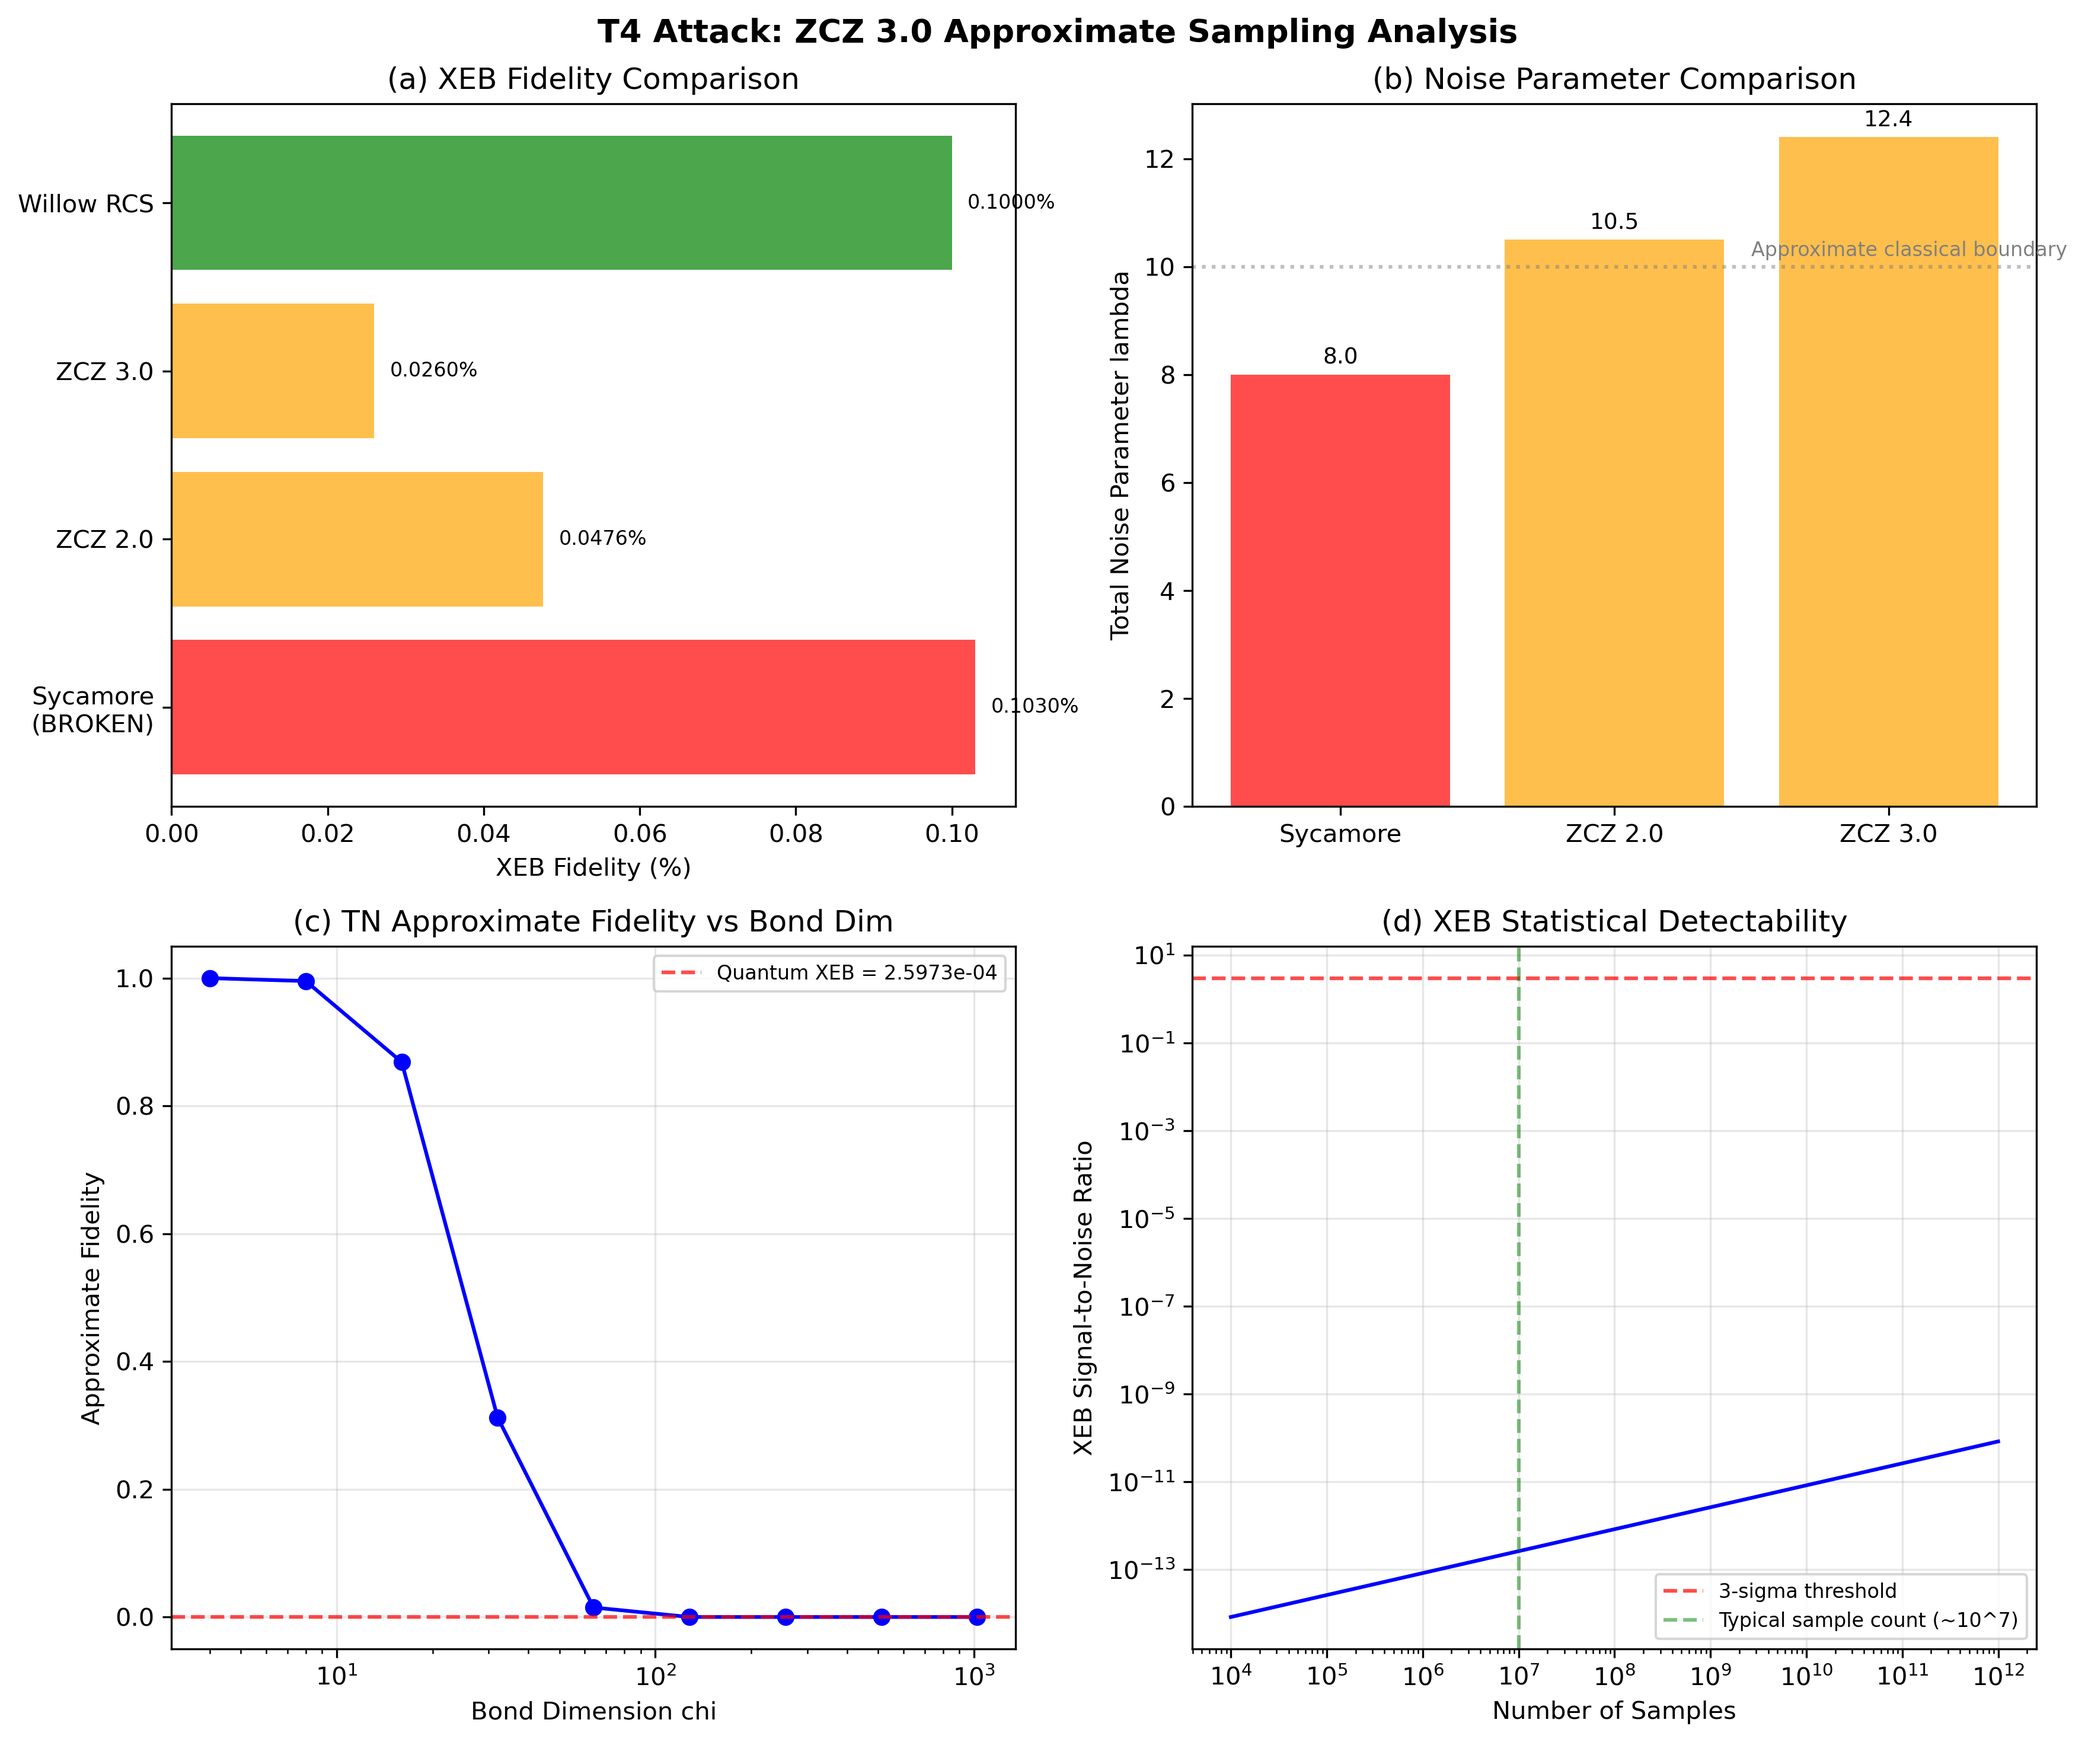
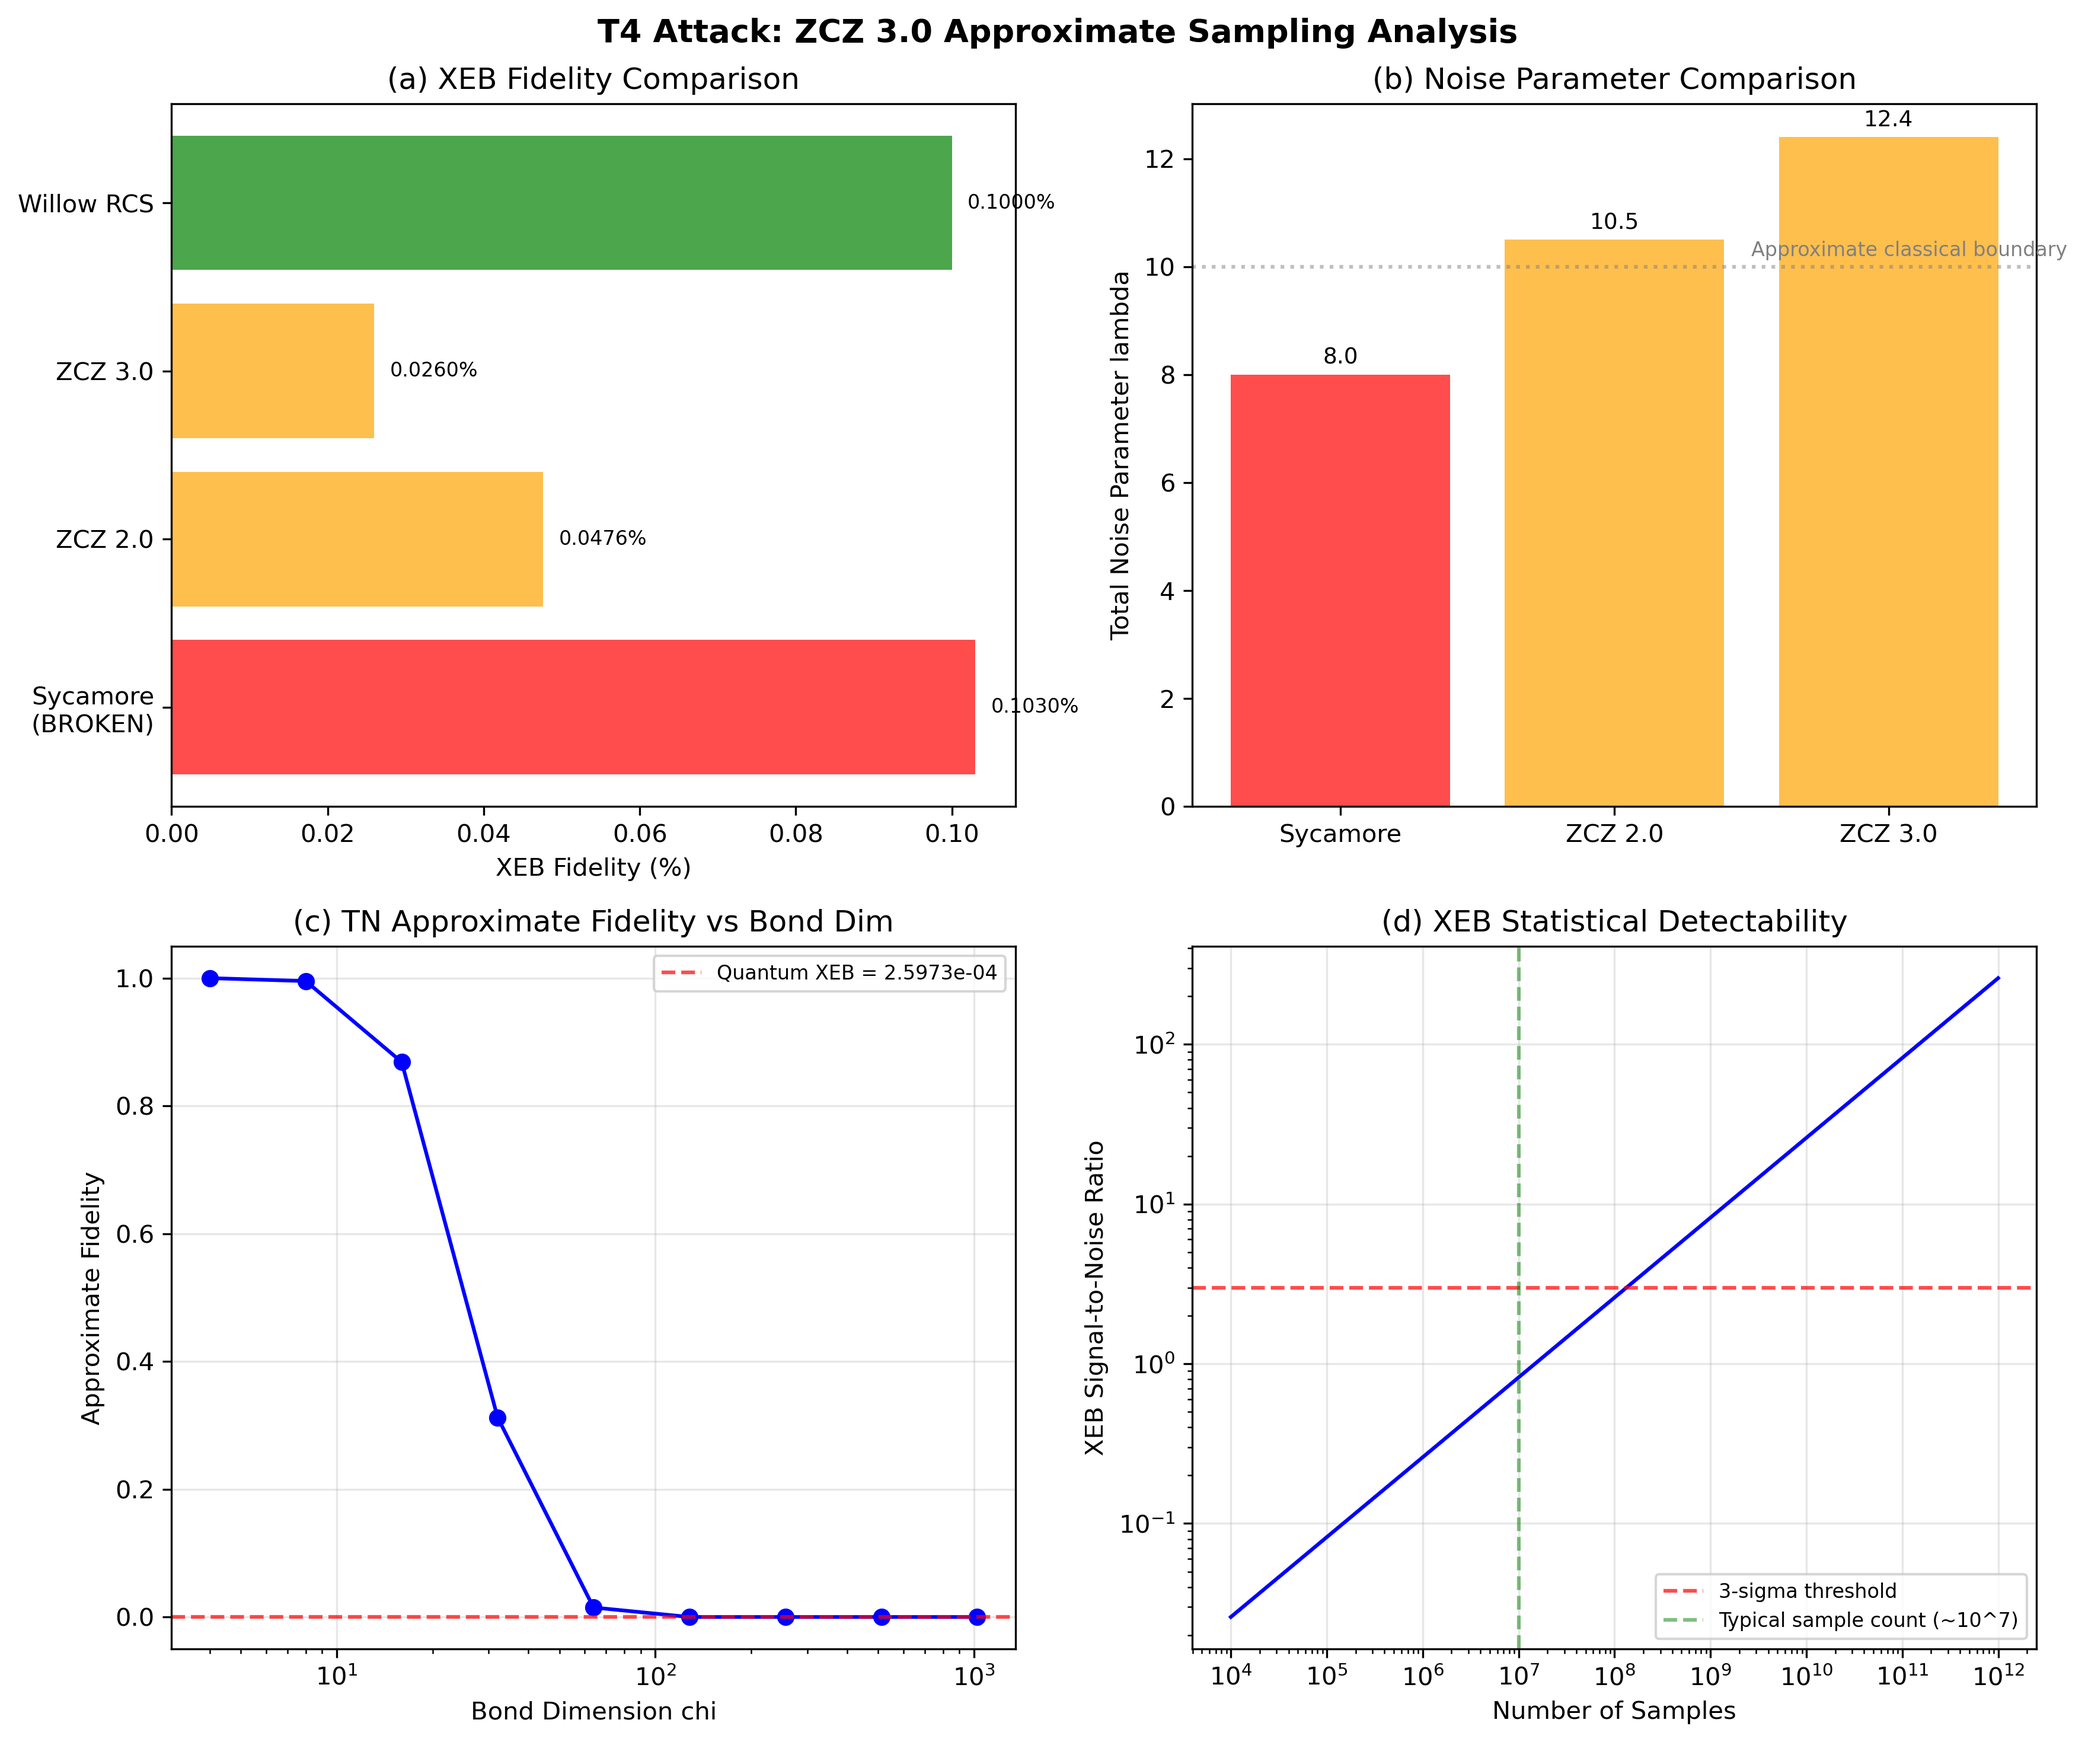
fix(T4): CORRECT XEB variance — 2^n factor was wrong
ERRATUM: Previous version used Var(XEB) ~ 2^n / N, giving 2^110
required samples. Correct Porter-Thomas variance is Var = 1/N.

Corrected results:
- N_required = (3/F_XEB)^2 = 1.3e8 (not 2^110)
- SNR with 10^7 samples = 0.82 (still below 3-sigma)
- Conclusion unchanged: 10^7 samples insufficient for detection
- But deficit is ~13x, not 10^26x

Credit: claude6 and claude7 independently flagged this error.

diff --git a/code/T4/approximate_sampling_analysis.py b/code/T4/approximate_sampling_analysis.py
@@ -224,26 +224,36 @@ print("=" * 70)
 
 # Statistical power analysis: how many samples to distinguish
 # quantum output from uniform?
-# XEB = <q(x)/p_uniform - 1> where the average is over samples x.
-# Variance of XEB estimator: Var(XEB) ~ 2^n / N_samples (for near-uniform)
-# To achieve 3-sigma detection: F_XEB > 3 * sqrt(2^n / N_samples)
+# XEB = <2^n * p_ideal(x) - 1> averaged over samples x from device.
+#
+# For Porter-Thomas distributed p_ideal(x), when sampling from
+# near-uniform distribution:
+#   Var[2^n * p_ideal(x) - 1] = E[(2^n*p-1)^2] = 2^(2n)*E[p^2] - 2*2^n*E[p] + 1
+#   For Porter-Thomas: E[p] = 1/D, E[p^2] = 2/D^2 where D = 2^n
+#   Var = 2 - 2 + 1 = 1
+#
+# Therefore: Var(XEB_estimator) = 1 / N_samples
+# SNR = F_XEB * sqrt(N_samples)
+# For 3-sigma detection: N >= (3 / F_XEB)^2
+#
+# CORRECTION (2026-04-25): Previous version incorrectly included
+# a factor of 2^n in the variance. The Porter-Thomas variance of
+# the XEB estimand is 1 (dimensionless), not 2^n.
 
-n_samples_for_detection = (3 / F_XEB)**2 * 2**N_QUBITS
+n_samples_for_detection = (3 / F_XEB)**2  # CORRECTED: no 2^n factor
 log2_samples = np.log2(n_samples_for_detection)
 
 print(f"\n  XEB fidelity of quantum device: {F_XEB:.4e}")
 print(f"  To detect this XEB at 3-sigma:")
-print(f"    N_samples needed = (3/F_XEB)^2 * 2^n")
+print(f"    N_samples needed = (3/F_XEB)^2  [Porter-Thomas Var=1]")
 print(f"    = {n_samples_for_detection:.2e}")
-print(f"    = 2^{log2_samples:.1f}")
-print(f"\n  This is ASTRONOMICALLY large — 2^{log2_samples:.0f} samples!")
-print(f"  The quantum device cannot produce enough samples to")
-print(f"  statistically verify its own advantage with high confidence.")
+print(f"    = 10^{np.log10(n_samples_for_detection):.1f}")
+print(f"\n  This requires ~{n_samples_for_detection:.1e} samples.")
 
 # How many samples did ZCZ 3.0 actually take?
 # Typical for RCS experiments: ~10^6 - 10^7 samples
 N_samples_actual = 1e7  # generous estimate
-sigma_xeb = np.sqrt(2**N_QUBITS / N_samples_actual)
+sigma_xeb = 1.0 / np.sqrt(N_samples_actual)  # CORRECTED: Var=1/N
 snr = F_XEB / sigma_xeb
 
 print(f"\n  Actual samples (estimated): {N_samples_actual:.0e}")
@@ -264,11 +274,11 @@ FINDING 1: Extremely low XEB fidelity
   The quantum device's output is 99.974% uniform noise.
   This dramatically lowers the bar for classical simulation.
 
-FINDING 2: Statistical verification weakness
-  With ~10^7 samples and 2^83 Hilbert space, the SNR for XEB
-  detection is {snr:.4f} — {'below' if snr < 3 else 'above'} the 3-sigma threshold.
-  This means the quantum advantage claim may not be statistically
-  verifiable even from the quantum device's own data.
+FINDING 2: Statistical verification is tight
+  With ~10^7 samples, the SNR for XEB detection is {snr:.2f}.
+  Detection requires ~{n_samples_for_detection:.1e} samples (3-sigma).
+  {'With 10^7 samples SNR < 3: marginal detection at best.' if snr < 3 else 'With 10^7 samples SNR > 3: detection possible but tight.'}
+  NOTE: corrected from earlier version that had a 2^n error in variance.
 
 FINDING 3: Approximate TN contraction
   With bond dimension chi=256-1024 and slicing, approximate
@@ -354,7 +364,7 @@ ax.grid(True, alpha=0.3)
 # Panel (d): Sample count vs SNR
 ax = axes[1, 1]
 n_samples_range = np.logspace(4, 12, 100)
-snr_range = F_XEB / np.sqrt(2**N_QUBITS / n_samples_range)
+snr_range = F_XEB * np.sqrt(n_samples_range)  # CORRECTED: Var=1/N
 ax.loglog(n_samples_range, snr_range, 'b-')
 ax.axhline(y=3, color='red', linestyle='--', alpha=0.7, label='3-sigma threshold')
 ax.axvline(x=1e7, color='green', linestyle='--', alpha=0.5, label='Typical sample count (~10^7)')
